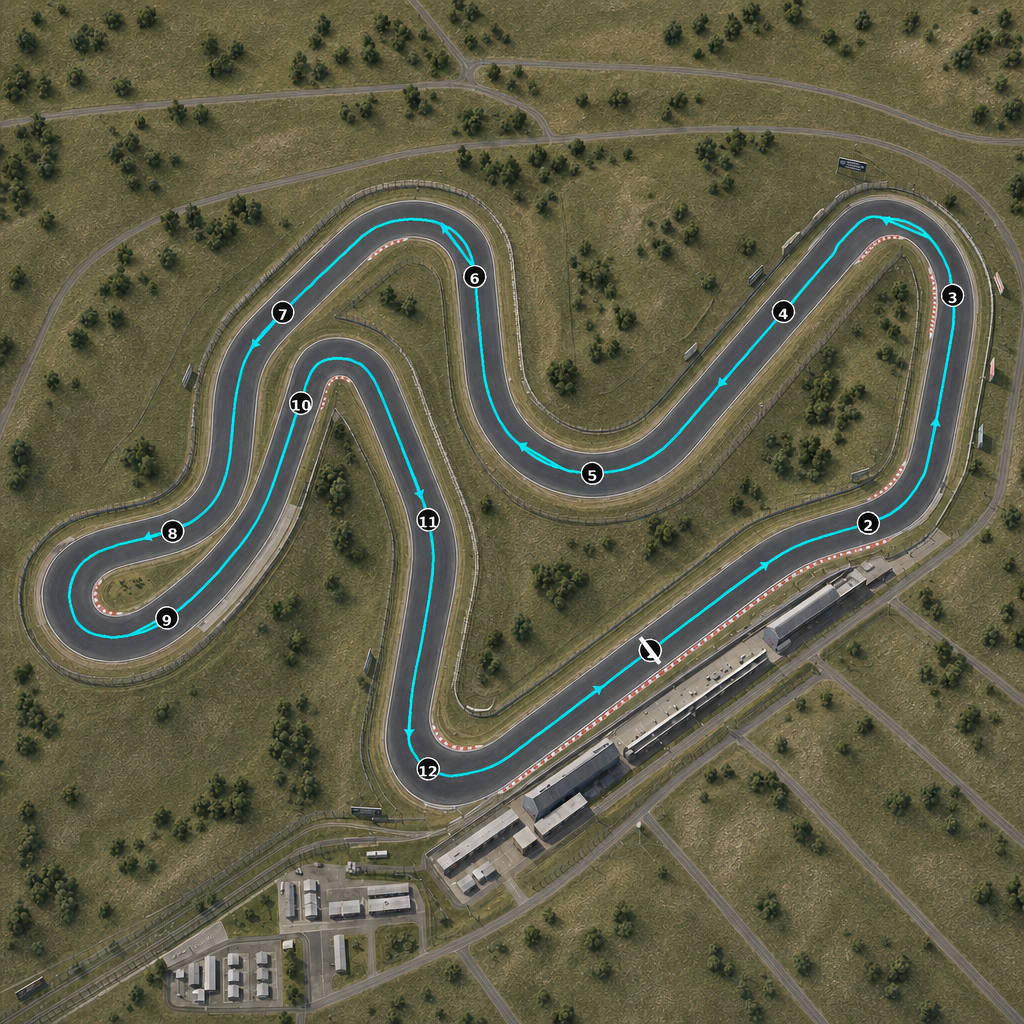
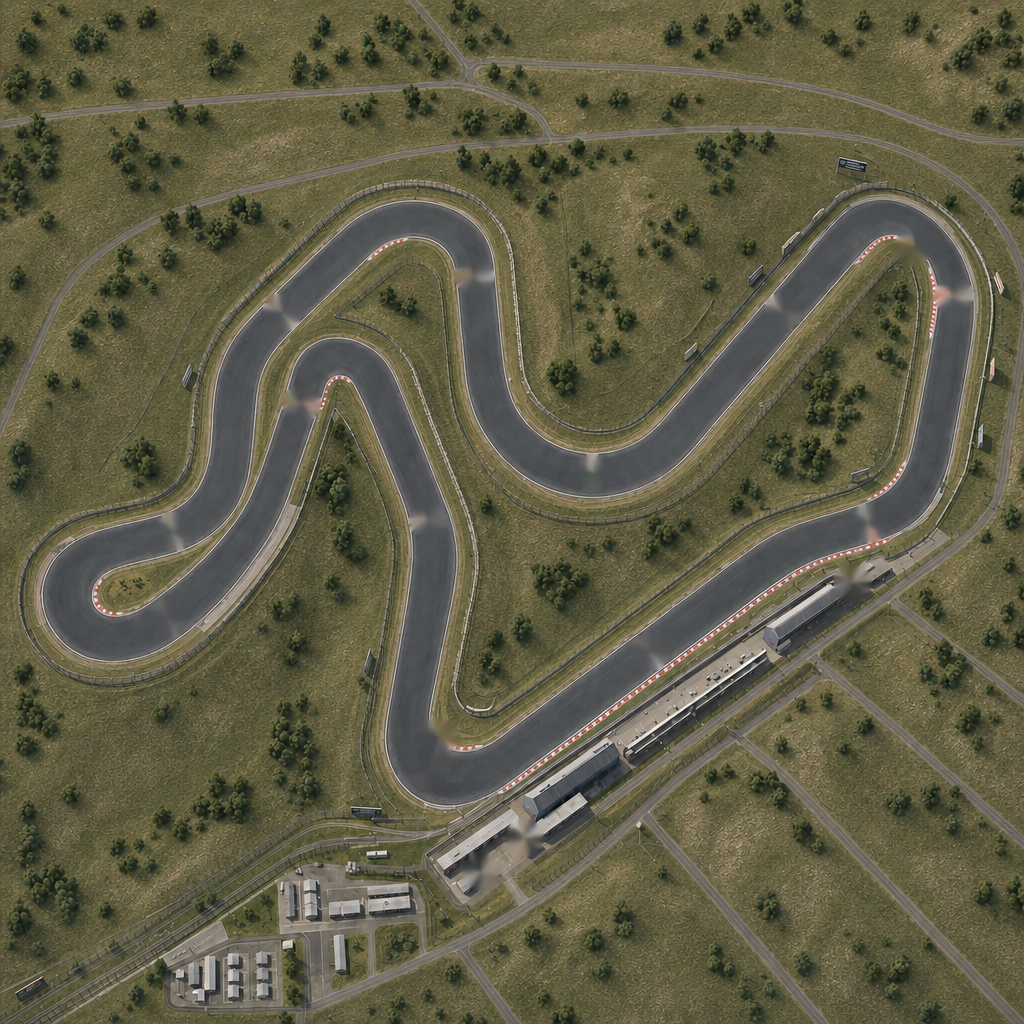
fix(track-map): clean and widen historic Kyalami image

diff --git a/src/components/TrackMapAssetPanel.tsx b/src/components/TrackMapAssetPanel.tsx
@@ -92,6 +92,7 @@ const KYALAMI_HISTORIC_IMAGE_POINTS: TrackMapPoint[] = [
   [734.4, 569.3],
   [679.7, 614.3],
 ];
+const KYALAMI_HISTORIC_MAP_POINTS: TrackMapPoint[] = KYALAMI_HISTORIC_IMAGE_POINTS.map(([x, y]) => [x, y * (H / KYALAMI_IMAGE_SIZE)]);
 
 export function TrackMapAssetPanel({
   series,
@@ -130,7 +131,7 @@ export function TrackMapAssetPanel({
       aria-label={`Live track map for ${trackName ?? match.geometry.name}`}
       data-testid="track-map-asset-panel"
       data-track-map-match={match.matchType}
-      preserveAspectRatio={isHistoricKyalami ? 'xMidYMid meet' : 'none'}
+      preserveAspectRatio="none"
     >
       <AssetTrackMap
         geometry={match.geometry}
@@ -170,10 +171,10 @@ function AssetTrackMap({
 }) {
   const isHistoricKyalami = eraTheme === 'f1-1990s' && geometry.id === 'kyalami-grand-prix-circuit-historic';
   const fitted = fitPoints(geometry);
-  const trackPoints = isHistoricKyalami ? KYALAMI_HISTORIC_IMAGE_POINTS : fitted;
+  const trackPoints = isHistoricKyalami ? KYALAMI_HISTORIC_MAP_POINTS : fitted;
   const pathD = toPath(fitted);
-  const mapWidth = isHistoricKyalami ? KYALAMI_IMAGE_SIZE : W;
-  const mapHeight = isHistoricKyalami ? KYALAMI_IMAGE_SIZE : H;
+  const mapWidth = W;
+  const mapHeight = H;
   const showSet = new Set(incidentDriverIds ?? []);
   const running = dots
     .filter((dot) => (dot.running || showSet.has(dot.driverId)) && !dot.inPit && !dot.pitRequested)
@@ -202,9 +203,9 @@ function AssetTrackMap({
             x="0"
             y="0"
             width={KYALAMI_IMAGE_SIZE}
-            height={KYALAMI_IMAGE_SIZE}
+            height={H}
             href={KYALAMI_HISTORIC_MAP_IMAGE}
-            preserveAspectRatio="xMidYMid meet"
+            preserveAspectRatio="none"
             data-track-layer="scenery-background"
             data-testid="kyalami-historic-image"
           />
@@ -355,13 +356,13 @@ function zoomBox(
   geometry: TrackMapGeometry,
   isHistoricKyalami: boolean,
 ): string {
-  const mapWidth = isHistoricKyalami ? KYALAMI_IMAGE_SIZE : W;
-  const mapHeight = isHistoricKyalami ? KYALAMI_IMAGE_SIZE : H;
+  const mapWidth = W;
+  const mapHeight = H;
   if (!zoom || zoom <= 1) {
     return `0 0 ${mapWidth} ${mapHeight}`;
   }
 
-  const fitted = isHistoricKyalami ? KYALAMI_HISTORIC_IMAGE_POINTS : fitPoints(geometry);
+  const fitted = isHistoricKyalami ? KYALAMI_HISTORIC_MAP_POINTS : fitPoints(geometry);
   const focus = focusPoint(fitted, focusDriverIds, focusTrackProgress, dots, mapWidth, mapHeight);
   const width = mapWidth / zoom;
   const height = mapHeight / zoom;

diff --git a/src/components/TrackMapAssetPanel.test.tsx b/src/components/TrackMapAssetPanel.test.tsx
@@ -97,7 +97,7 @@ describe('TrackMapAssetPanel', () => {
     expect(html).toContain('data-marker-tooltip="true"');
   });
 
-  it('renders historic Kyalami from the square scenery image with live markers', () => {
+  it('renders historic Kyalami from a wide scenery image with live markers', () => {
     const kyalamiDots: TrackDot[] = [
       { ...dots[0], driverId: 'mansell', label: '5', year: 1992, trackProgress: 0.2, rank: 1 },
       { ...dots[1], driverId: 'patrese', label: '6', year: 1992, trackProgress: 0.207, rank: 2 },
@@ -114,12 +114,14 @@ describe('TrackMapAssetPanel', () => {
       />,
     );
 
-    expect(html).toContain('viewBox="0 0 1000 1000"');
-    expect(html).toContain('preserveAspectRatio="xMidYMid meet"');
+    expect(html).toContain('viewBox="0 0 1000 500"');
+    expect(html).toContain('preserveAspectRatio="none"');
     expect(html).toContain('data-track-style="historic-kyalami-image-2.5d"');
     expect(html).toContain('data-track-map-background="kyalami-historic-2p5d"');
     expect(html).toContain('data-testid="kyalami-historic-image"');
     expect(html).toContain('href="/assets/track-maps/kyalami-historic-2p5d.png"');
+    expect(html).toContain('width="1000"');
+    expect(html).toContain('height="500"');
     expect(html).not.toContain('data-track-layer="racing-surface"');
     expect(html).toContain('data-race-map-marker="f1_1990s"');
     expect(html).toContain('data-marker-year="1992"');